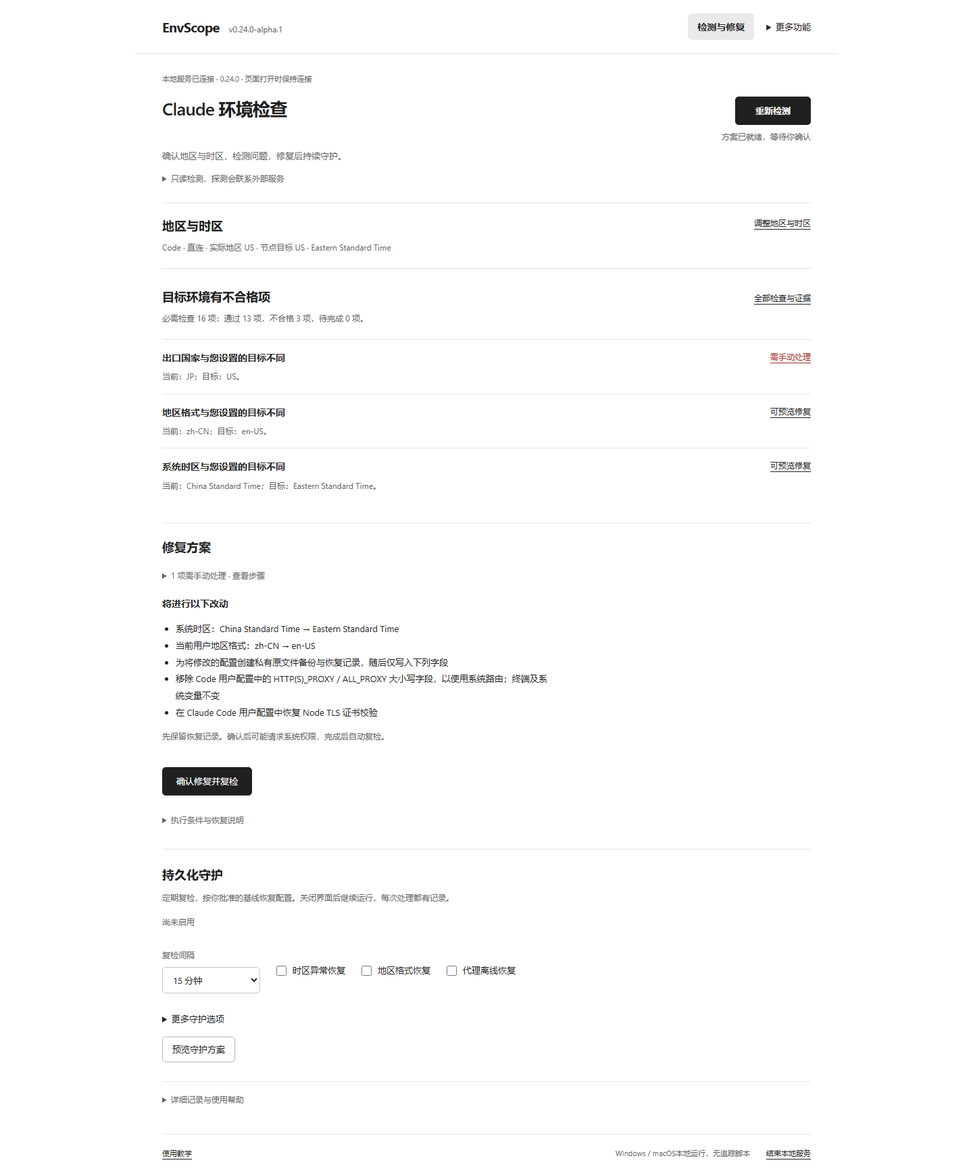
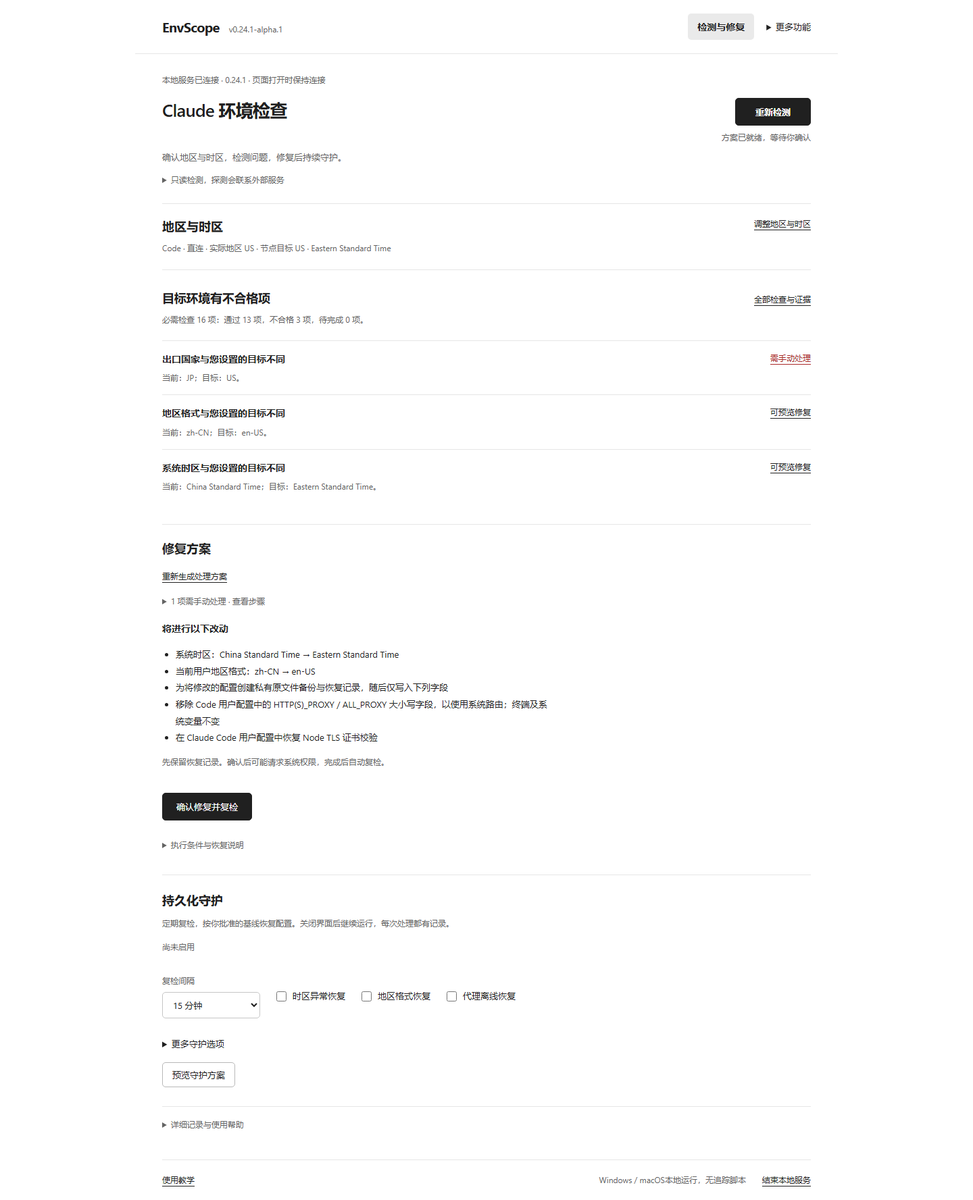
Keep repair plans available after rechecks and preserve failure receipts

diff --git a/envscope/web/minimal.css b/envscope/web/minimal.css
@@ -15,7 +15,7 @@ nav{display:flex;align-items:center;gap:18px}
 .tab[aria-current=page]{background:var(--selected);color:var(--ink);font-weight:600}
 main{margin:0 auto;max-width:1040px;padding:28px 40px 40px;min-height:calc(100vh - 158px)}
 .page{max-width:100%}
-.connection-status{font-size:11px;color:var(--muted);margin:0 0 20px}
+.connection-status{font-size:12px;color:var(--muted);margin:0 0 20px}
 .connection-banner{border:1px solid var(--ink);border-radius:5px;padding:18px 20px;margin-bottom:24px;max-width:80ch}
 .connection-banner p{margin:8px 0;font-size:13px}
 #show-all-checks{margin-bottom:16px}
@@ -91,9 +91,9 @@ dl div{display:flex;flex-direction:column;gap:5px;min-width:110px;font-size:12px
 dt{color:var(--muted)}dd{margin:0;overflow-wrap:anywhere}
 .limits{margin-top:30px;padding-top:22px;border-top:1px solid var(--line)}
 .limits p{margin:10px 0 0}
-footer{max-width:960px;margin:0 auto;padding:18px 0;border-top:1px solid var(--line);display:flex;align-items:center;gap:24px;font-size:11px;line-height:1.9;color:var(--muted)}
+footer{max-width:960px;margin:0 auto;padding:18px 0;border-top:1px solid var(--line);display:flex;align-items:center;gap:24px;font-size:12px;line-height:1.9;color:var(--muted)}
 footer span{margin-left:auto;text-align:right}footer br{display:none}
-footer .link{text-align:left;font-size:11px}
+footer .link{text-align:left;font-size:12px}
 .subtle{font-size:13px;color:var(--muted);margin-bottom:30px;max-width:72ch}
 .tool-section{border-top:1px solid var(--line);margin-top:30px;padding-top:22px}
 .tool-section h2{margin-bottom:10px}
@@ -163,8 +163,8 @@ td .link{margin-left:15px}
 .claude-checklist h3{font-size:14px;font-weight:600;margin:0 0 7px}
 .claude-checklist p{margin:0 0 10px}
 .claude-checklist .check-state{font-weight:600}
-.claude-checklist button{font-size:11px;text-align:left;padding:6px 9px}
-.claude-checklist .note{font-size:11px}
+.claude-checklist button{font-size:12px;text-align:left;padding:6px 9px}
+.claude-checklist .note{font-size:12px}
 .upkeep-state{border-top:1px solid var(--line);padding-top:22px}
 #upkeep-plan{margin-top:20px;max-width:80ch}
 #upkeep-plan h3{font-size:15px;margin-bottom:12px}
@@ -175,7 +175,7 @@ td .link{margin-left:15px}
 #upkeep-events td{vertical-align:top;font-size:12px;line-height:1.8;overflow-wrap:anywhere}
 #upkeep-events td:nth-child(2){width:54%;text-align:left}
 #upkeep-events td:first-child{width:22%}
-#upkeep-events .link{margin-left:0;white-space:normal;text-align:left;font-size:11px}
+#upkeep-events .link{margin-left:0;white-space:normal;text-align:left;font-size:12px}
 #config-backups td{font-size:12px;vertical-align:top}
 .primary{background:var(--ink);border-color:var(--ink);color:#fff;padding:10px 22px}
 .primary:hover:not(:disabled){background:#444;border-color:#444}
@@ -208,8 +208,8 @@ td .link{margin-left:15px}
 .task-number{font-size:12px;font-variant-numeric:tabular-nums;color:var(--muted)}
 .usage-tasks h3{grid-column:2;grid-row:1;font-size:14px;font-weight:550;margin-bottom:4px}
 .usage-tasks p{grid-column:1 / -1;grid-row:3;font-size:12px;line-height:1.8;color:var(--muted);margin:8px 0 0;max-width:73ch}
-.task-state{grid-column:2;grid-row:2;font-size:11px;color:var(--muted);padding-top:2px}
-.explain-label{font-size:11px;color:var(--muted);margin:18px 0 5px}
+.task-state{grid-column:2;grid-row:2;font-size:12px;color:var(--muted);padding-top:2px}
+.explain-label{font-size:12px;color:var(--muted);margin:18px 0 5px}
 .problem .observed{margin-bottom:8px}
 .problem .cause{margin-bottom:14px}
 .other-problems{margin-bottom:25px}
@@ -238,7 +238,7 @@ td .link{margin-left:15px}
 .plain-checks>details[open]>summary::before{content:'−'}
 .plain-checks>details>summary>span:first-of-type{flex:1}
 .plain-checks>details>summary::-webkit-details-marker{display:none}
-.plain-checks .check-state{font-size:11px;font-weight:400;text-align:right;max-width:190px;color:var(--muted)}
+.plain-checks .check-state{font-size:12px;font-weight:400;text-align:right;max-width:190px;color:var(--muted)}
 .plain-checks>details>div{padding-left:34px;font-size:13px;color:var(--muted);max-width:83ch}
 .plain-checks>details>div h3{color:var(--ink);font-size:12px;margin:20px 0 6px}
 .plain-checks>details>div>p{margin-bottom:10px}
@@ -247,7 +247,7 @@ td .link{margin-left:15px}
 #technical-details .result-toolbar{margin-top:20px;padding-top:0;border:0}
 .opensource-option{display:grid;grid-template-columns:170px minmax(0,1fr);column-gap:22px;border-top:1px solid var(--line);padding:20px 0}
 .opensource-option h3{font-size:14px;font-weight:550}
-.opensource-option>.note{grid-column:1;grid-row:2;font-size:11px;margin-top:4px}
+.opensource-option>.note{grid-column:1;grid-row:2;font-size:12px;margin-top:4px}
 .opensource-option>p{grid-column:2;grid-row:1 / span 2;font-size:13px;color:var(--muted);margin-bottom:10px}
 .opensource-option>a{grid-column:2;justify-self:start}
 .connection-options{margin:23px 0 26px;max-width:78ch}
@@ -258,7 +258,6 @@ td .link{margin-left:15px}
 .flow-progress li{font-size:12px;color:var(--muted);flex:1;padding:10px 0 12px}
 .flow-progress li[data-active=true]{color:var(--ink);font-weight:600;border-bottom:2px solid var(--ink);margin-bottom:-1px}
 #flow-state{margin-bottom:24px;max-width:85ch}
-.solution-tools[data-workflow=true]>.actions:first-child{display:none}
 #solution-plan .connection-evidence{padding:10px 0;border-bottom:1px solid var(--line)}
 #solution-plan .connection-evidence p{font-size:12px;line-height:1.85;max-width:83ch;margin:12px 0}
 .manual-items{margin:18px 0}
@@ -300,7 +299,7 @@ td .link{margin-left:15px}
 .inspection-select input { width: 17px; height: 17px; margin: 0; accent-color: #222; }
 .inspection-row[data-manual="true"] { border-left: 3px solid #a92828; padding-left: 12px; }
 .inspection-row[data-manual="true"] .inspection-state, .manual-guidance, .inspection-error { color: #a92828; }
-.manual-guidance { border-left: 3px solid #a92828; padding-left: 14px; margin: 16px 0; }
+.manual-guidance { margin: 16px 0; }
 .inspection-row summary > .inspection-name { flex: 1; }
 #checks-plan:empty, #checks-region-recovery:empty { display: none; }
 #checks-plan { padding: 18px 0; border-bottom: 1px solid #ddd; }
@@ -336,10 +335,10 @@ td .link{margin-left:15px}
 .problem[open]>.cause{margin:12px 0;color:var(--muted)}
 .problem-actions button{font-size:12px}
 .solution-tools{padding-top:22px;margin-top:22px}
-.solution-tools[data-workflow=true]>.actions:not(#solution-backups){display:none}
+.solution-tools[data-workflow=true] #quick-proxy,.solution-tools[data-workflow=true] #quick-proxy-select{display:none}
 #solution-plan h3{margin:15px 0 9px;font-size:14px}
 #solution-plan>ul{padding-left:20px;font-size:13px}
-#solution-output:empty,#flow-upkeep-output:empty,#solution-backups:empty{display:none}
+#solution-output:empty,#solution-result:empty,#flow-upkeep-output:empty,#solution-backups:empty{display:none}
 .flow-upkeep{margin-top:32px;padding-top:24px}
 .flow-upkeep>p{margin:8px 0 14px}
 #flow-watchdog-options{margin:14px 0}

diff --git a/envscope/web/index.html b/envscope/web/index.html
@@ -95,7 +95,7 @@
       <p id="resolution" class="resolution" aria-live="polite" hidden></p>
       <section id="issue-section"><h2 class="sr-only">发现的问题</h2><p id="issue-summary" class="sr-only"></p><div id="problems"></div></section>
       <section id="solution-tools" class="solution-tools" hidden>
-        <h2>修复方案</h2><div class="actions"><button id="prepare-solution" class="link" hidden>重新生成处理方案</button><select id="quick-proxy-select" aria-label="用于测试的已发现代理" hidden></select><button id="quick-proxy" class="link">单独测试已有代理</button></div>
+        <h2>修复方案</h2><div id="solution-result" class="solution-output" role="status"></div><div class="actions"><button id="prepare-solution" class="link" disabled>生成修复方案</button><select id="quick-proxy-select" aria-label="用于测试的已发现代理" hidden></select><button id="quick-proxy" class="link">单独测试已有代理</button></div>
         <div id="solution-plan"></div><div id="solution-output" class="solution-output" aria-live="polite"></div><div id="solution-backups" class="actions"></div>
       </section>
       <section id="flow-upkeep" class="flow-upkeep" hidden aria-labelledby="flow-upkeep-title"><h2 id="flow-upkeep-title">持久化守护</h2><p class="note">定期复检，按你批准的基线恢复配置。关闭界面后继续运行，每次处理都有记录。</p><p id="flow-upkeep-status" class="note" aria-live="polite">尚未启用。</p>

diff --git a/scripts/simple_workflow_smoke.py b/scripts/simple_workflow_smoke.py
@@ -3,7 +3,7 @@ import json
 from pathlib import Path
 import tempfile
 import threading
-from unittest.mock import Mock
+from unittest.mock import Mock, patch
 
 from playwright.sync_api import expect, sync_playwright
 from envscope.legacy import LegacyBridge
@@ -34,8 +34,11 @@ def main():
                         'timezone_id': 'China Standard Time' if system == 'Windows' else 'Asia/Shanghai'}}
                     writes, errors, requests = [], [], []
                     fault = [None]
+                    deny_write = [False]
 
                     def writer(key, value):
+                        if deny_write[0]:
+                            raise PermissionError('fixture: permission denied')
                         writes.append((key, value))
                         if key == 'timezone':
                             inventory['network']['timezone_id'] = value
@@ -98,18 +101,99 @@ def main():
                         expect(page.locator('#flow-upkeep')).to_be_visible()
                         expect(page.locator('#more-results')).not_to_have_attribute('open', '')
                         page.screenshot(path=str(out / f'{system}-{width}-problems.png'), full_page=True)
+                        # A problem's recheck must replace the consumed preview with a
+                        # fresh plan, including region fixes outside legacy repair_count.
+                        first_plan = next(r for r in reversed(requests) if r['action'] == 'inspection-plan')
+                        timezone_issue = page.locator('#problems>details').filter(has_text='系统时区与您设置的目标不同')
+                        timezone_issue.locator('summary').click()
+                        timezone_issue.get_by_role('button', name='重新检测', exact=True).click()
+                        expect(page.locator('#apply-solution')).to_be_visible(timeout=30000)
+                        expect(page.locator('#prepare-solution')).to_be_visible()
+                        next_plan = next(r for r in reversed(requests) if r['action'] == 'inspection-plan')
+                        assert next_plan['params']['report_id'] != first_plan['params']['report_id']
+                        assert not writes, 'rechecking must never apply a plan'
+                        # Expired approval cannot write, and must leave a working way
+                        # to generate another reviewed plan.
+                        for plan in ops.inspection_plans.values():
+                            plan['deadline'] = 0
+                        page.locator('#apply-solution').click()
+                        expect(page.locator('#solution-result')).to_contain_text('方案已失效')
+                        expect(page.locator('#prepare-solution')).to_be_enabled()
+                        assert not writes
+                        # Inject a transport error only at the read-only plan boundary.
+                        def fail_preview(route):
+                            if route.request.post_data_json.get('action') == 'inspection-plan':
+                                route.fulfill(status=503, json={'error': '模拟：方案服务暂时不可用'})
+                            else:
+                                route.continue_()
+                        page.route('**/api/action', fail_preview)
+                        page.locator('#prepare-solution').click()
+                        expect(page.locator('#solution-output')).to_contain_text('暂时不可用')
+                        expect(page.locator('#apply-solution')).to_have_count(0)
+                        expect(page.locator('#prepare-solution')).to_be_enabled()
+                        page.unroute('**/api/action', fail_preview)
+                        page.locator('#prepare-solution').click()
+                        expect(page.locator('#apply-solution')).to_be_enabled()
+                        assert not writes
+                        def waiting_install(route):
+                            if route.request.post_data_json.get('action') == 'inspection-apply':
+                                route.fulfill(json={'state': 'waiting_install', 'reason': '模拟安装：完成后继续复检'})
+                            else:
+                                route.continue_()
+                        page.route('**/api/action', waiting_install)
+                        page.locator('#apply-solution').click()
+                        expect(page.get_by_role('button', name='安装完成，继续复检', exact=True)).to_be_enabled()
+                        assert not writes
+                        page.unroute('**/api/action', waiting_install)
+                        page.get_by_role('button', name='安装完成，继续复检', exact=True).click()
+                        expect(page.locator('#apply-solution')).to_be_enabled(timeout=30000)
+                        expect(page.locator('#solution-result')).to_contain_text('安装后复检已完成')
+                        # The real transaction creates its recovery metadata, then the
+                        # file replacement fails. Its specific reason must remain visible.
+                        with patch('envscope.remedies._replace', side_effect=PermissionError('fixture denied')):
+                            page.locator('#apply-solution').click()
+                            expect(page.locator('#solution-result')).to_contain_text('已保留原文件备份', timeout=30000)
+                            expect(page.locator('#apply-solution')).to_be_enabled(timeout=30000)
+                        assert {key for key, value in writes} == {'timezone', 'locale'}
                         page.locator('#apply-solution').click()
                         expect(page.locator('#resolution')).to_be_visible(timeout=30000)
                         expect(page.locator('#start')).to_be_enabled()
                         assert {key for key, value in writes} == {'timezone', 'locale'}
-                        assert not page.locator('#problems [data-problem="baseline.timezone"]').count()
+                        expect(page.locator('#solution-result')).to_contain_text('修改已执行')
+                        expect(page.locator('#problems [data-problem="target.timezone"]')).to_have_count(0)
+                        expect(page.locator('#apply-solution')).to_have_count(0)
+                        expect(page.locator('#prepare-solution')).to_be_visible()
+                        # Failed recheck keeps the last execution receipt and explains
+                        # why a fresh repair is unavailable; recovery uses a new audit.
+                        page.route('**/api/audit', lambda route: route.fulfill(status=503, json={'error': 'fixture unavailable'}))
+                        page.locator('#start').click()
+                        expect(page.locator('#solution-output')).to_contain_text('本轮检测未完成', timeout=30000)
+                        expect(page.locator('#prepare-solution')).to_be_visible()
+                        expect(page.locator('#prepare-solution')).to_be_disabled()
+                        expect(page.locator('#solution-result')).to_contain_text('修改已执行')
+                        page.unroute('**/api/audit')
+                        page.locator('#start').click()
+                        expect(page.locator('#start')).to_be_enabled(timeout=30000)
                         page.locator('#flow-upkeep-guard-timezone').check()
+                        page.locator('#flow-upkeep-guard-locale').check()
                         page.locator('#flow-upkeep-prepare').click()
                         expect(page.locator('#flow-upkeep-plan')).to_contain_text('保持时区')
                         assert not maintenance.scheduler.definition
                         page.locator('#flow-upkeep-plan button').click()
                         expect(page.locator('#flow-upkeep-status')).to_contain_text('等待', timeout=10000)
                         assert maintenance.scheduler.definition
+                        inventory['network']['timezone_id'] = 'UTC'
+                        inventory['locale'] = 'fr-FR'
+                        assert maintenance.run_once()['state'] == 'completed'
+                        assert inventory['network']['timezone_id'] == ('Eastern Standard Time' if system == 'Windows' else 'America/New_York')
+                        assert inventory['locale'] == ('en-US' if system == 'Windows' else 'en_US')
+                        status = maintenance.status()
+                        assert status['watchdog']['timezone']['state'] == 'restored'
+                        assert status['watchdog']['locale']['state'] == 'restored'
+                        assert any(e['kind'] == 'watchdog_restored' for e in status['events'])
+                        expect(page.locator('#flow-upkeep-status')).to_contain_text('时区', timeout=25000)
+                        expect(page.locator('#flow-upkeep-status')).to_contain_text('地区格式')
+                        page.screenshot(path=str(out / f'{system}-{width}-guard-restored.png'), full_page=True)
                         page.locator('#flow-upkeep-stop').click()
                         expect(page.locator('#flow-upkeep-status')).to_contain_text('尚未启用')
                         fault[0] = 'permission'
@@ -118,6 +202,25 @@ def main():
                         expect(page.locator('#problems')).to_contain_text('权限')
                         assert page.locator('#problems>details[data-manual=true]>summary:visible').count() > 0
                         page.screenshot(path=str(out / f'{system}-{width}-permission.png'), full_page=True)
+                        # A denied OS write must survive the automatic recheck with
+                        # manual recovery guidance and no fabricated repair success.
+                        fault[0] = None
+                        inventory['network']['timezone_id'] = 'UTC'
+                        deny_write[0] = True
+                        previous_writes = list(writes)
+                        page.locator('#start').click()
+                        expect(page.locator('#apply-solution')).to_be_enabled(timeout=30000)
+                        page.locator('#apply-solution').click()
+                        expect(page.locator('#start')).to_be_enabled(timeout=30000)
+                        expect(page.locator('#solution-result')).to_contain_text('修复尚未完成')
+                        expect(page.locator('#solution-result')).to_have_class('solution-output inspection-error')
+                        expect(page.locator('#solution-plan')).to_contain_text('上次地区修改尚未完成')
+                        expect(page.locator('#prepare-solution')).to_be_visible()
+                        expect(page.locator('#apply-solution')).to_have_count(0)
+                        assert writes == previous_writes
+                        expect(page.get_by_role('button', name='查看地区修改与恢复记录', exact=True)).to_have_count(1)
+                        assert inventory['network']['timezone_id'] == 'UTC'
+                        page.screenshot(path=str(out / f'{system}-{width}-repair-denied.png'), full_page=True)
                         for name in ('accounts', 'tools', 'checks', 'upkeep', 'settings', 'coverage', 'history', 'audit'):
                             open_page(page, name)
                             expect(page.locator('#page-' + name)).to_be_visible()
@@ -128,6 +231,10 @@ def main():
                         results.append({'platform': system, 'width': width, 'single_workflow': True,
                                         'all_issue_summaries_visible': True, 'preview_before_write': True,
                                         'repair_retest': True, 'watchdog_preview_enable_disable': True,
+                                        'problem_recheck_fresh_plan': True, 'expired_plan_no_write': True,
+                                        'preview_error_retry': True, 'failed_recheck_recovery': True,
+                                        'denied_write_manual_recovery': True, 'watchdog_drift_restored_and_logged': True,
+                                        'install_continue_previews_remaining': True, 'file_write_failure_reason_retained': True,
                                         'advanced_navigation': True, 'production_changes': False})
                     finally:
                         context.close()

diff --git a/scripts/browser_smoke.py b/scripts/browser_smoke.py
@@ -182,9 +182,10 @@ def main():
                 assert config_shape(config_file)['valid']
                 page.screenshot(path=str(ARTIFACTS/f'{label}-resolved.png'))
                 page.get_by_role('button',name='撤销 Claude 桌面配置',exact=True).click()
-                expect(page.locator('#solution-output')).to_contain_text('已恢复原配置')
+                expect(page.locator('#solution-result')).to_contain_text('已恢复原配置')
                 expect(page.locator('#verdict')).to_contain_text('目标环境有不合格项')
                 assert config_file.read_bytes()==original
+                expect(page.locator('#apply-solution')).to_be_enabled()
                 page.locator('#start').click()
                 expect(page.locator('#apply-solution')).to_be_visible()
                 page.locator('#apply-solution').click()

diff --git a/envscope/__init__.py b/envscope/__init__.py
@@ -1,4 +1,4 @@
 """EnvScope: evidence-first environment diagnostics."""
 
-__version__ = "0.24.0"
+__version__ = "0.24.1"
 __release__ = "v" + __version__ + "-alpha.1"

diff --git a/docs/SIMPLE_WORKFLOW.md b/docs/SIMPLE_WORKFLOW.md
@@ -4,8 +4,8 @@
 
 1. **地区与时区**：填写实际所在地；读取当前出口 IP，建议节点地区及对应城市。选择城市会匹配 Windows / macOS 时区、地区格式和语言目标。手动选择和已保存目标不会被迟到的查询结果覆盖。用途与连接方式按需展开。
 2. **一键检测**：完成目标确认后开始。结果说明必需项通过、不合格和待完成的数量；所有问题标题、实际观测与处理方式直接可见。需要权限、缺少证据和本版不支持的检查分别说明，不计为通过。
-3. **修复方案**：先列出具体字段、原值与目标或可执行操作。时区、地区格式与 Code 配置合并审核，确认后才执行，随后自动复检。保留备份和恢复入口。需要先启动客户端的操作仍分阶段复检；无法自动处理的项目标红并给出步骤。
-4. **持久化守护**：选择周期以及需要保持的时区、地区格式和代理；额外客户端与 Code 选项折叠。预览具体基线并确认启用，同页可停用。后台仅执行已批准的范围并保存结果，未获得权限的修改保留原因。
+3. **修复方案**：先列出具体字段、原值与目标或可执行操作。时区、地区格式与 Code 配置合并审核，确认后才执行，随后自动复检。复检使旧方案失效，再按当前问题生成新方案；重新生成入口始终保留。方案生成失败可重试，检测失败时说明需要先重新检测。上次执行结果、失败原因、备份和恢复入口独立保留；部分失败不会重复自动执行，需核对恢复记录。需要先启动客户端的操作仍分阶段复检；无法自动处理的项目标红并给出步骤。
+4. **持久化守护**：选择周期以及需要保持的时区、地区格式和代理；额外客户端与 Code 选项折叠。预览具体基线并确认启用，同页可停用。后台仅执行已批准的范围并保存结果，未获得权限的修改保留原因。首页显示最近完成时间和各项基线的实际恢复结果；失败、过期或暂停以红色提示，完整日志在“更多功能 → 守护与高级修复”。
 
 顶部“更多功能”提供全部检查（选择 / 全选 / 批量处理）、账号资料、工具与备份、守护与高级修复、历史、设置与更新、环境全览。详细测量、帮助和 Claude 启动入口放在首页末尾，不妨碍主流程。
 
@@ -19,6 +19,6 @@
 
 ## 验收范围
 
-`scripts.simple_workflow_smoke` 使用一次性配置、模拟 Windows / macOS 系统和替代调度器，检查首次提示、地区选择、问题显示、修复审核、自动复检、权限指引、守护启停及全部导航。1024、1280、1440 桌面宽度检查溢出。Code 测试另覆盖损坏 JSON 与证书设置一次修复、已有字段保留和未选择范围拒绝写入。
+`scripts.simple_workflow_smoke` 使用一次性配置、模拟 Windows / macOS 系统和替代调度器，检查首次提示、地区选择、问题内复检生成新方案、过期方案拒绝写入、生成失败重试、复检失败恢复、权限拒绝后的手动恢复、守护启停及全部导航。模拟时区与地区格式漂移后，调用真实守护逻辑，核对恢复读回、日志和首页结果。1024、1280、1440 桌面宽度检查溢出。Code 测试另覆盖损坏 JSON 与证书设置一次修复、已有字段保留和未选择范围拒绝写入。
 
 以上为隔离验收，不修改测试机器的真实时区、代理、账号或后台任务，也不代表 Claude 实际认证已通过。

diff --git a/README.md b/README.md
@@ -2,7 +2,7 @@
 
 面向 Windows 和 macOS 的极简桌面环境工具。以 [claude-switcher](https://github.com/YOURSJEYO/claude-switcher) 为功能底座，保留原版维护能力，增加独立检测、事务式账号管理、代理诊断和历史对比。
 
-当前源码 **0.24.0 Alpha** 将首页简化为“地区与时区 → 一键检测 → 问题和修复 → 持久化守护”。问题逐项可见，缺失的必需证据单独说明；时区、地区格式和 Code 配置合并审核，确认后修复并自动复检。地区预设扩充至 **247 个国家和地区、417 个城市/时区**。账号、全部检查、工具和历史统一放在“更多功能”。参见 [新版操作流程](docs/SIMPLE_WORKFLOW.md) 和 [完整功能对照](docs/FULL_PARITY_AUDIT.md)。公开安装包以 Releases 为准。
+当前源码 **0.24.1 Alpha** 按“地区与时区 → 一键检测 → 问题和修复 → 持久化守护”运行。复检后自动更新修复方案，保留重新生成入口和上次执行结果；方案过期、权限拒绝或检测失败会说明原因与下一步。时区、地区格式和 Code 配置合并审核，确认后修复并复检；守护状态显示具体恢复结果。地区预设覆盖 **247 个国家和地区、417 个城市/时区**。账号、全部检查、工具和历史统一放在“更多功能”。参见 [操作流程](docs/SIMPLE_WORKFLOW.md) 和 [完整功能对照](docs/FULL_PARITY_AUDIT.md)。公开安装包以 Releases 为准。
 
 **0.23.0 已加入**可恢复的旧软件清理、临时浏览器独立清理进程与重启恢复，以及 48 小时不同出口集合统计。清理支持单项 / 全选，先预览、再确认，保留账号与凭据。参见 [旧软件清理](docs/LEGACY_SOFTWARE.md) 和 [临时浏览器](docs/BROWSER_SESSIONS.md)。
 

diff --git a/docs/UI_DESIGN.md b/docs/UI_DESIGN.md
@@ -8,7 +8,7 @@
 
 检测后，所有问题标题、观测和处理方式逐项可见。展开一项可查看原因与步骤；缺少必需证据也必须有明确入口。不能自动修复的项目用红色文字说明。技术记录、已通过的观测与帮助默认折叠。
 
-修复区先列具体改动，只保留一个确认修复并复检按钮。持久化守护紧随其后：选择间隔与需保持的配置，预览、确认、启停都在同页。后台权限或修复失败必须显示原因，不能仅凭写入成功就显示环境合格。
+修复区先列具体改动，只保留一个确认修复并复检按钮，并保留“重新生成处理方案”的次要入口。复检清除旧方案、刷新剩余问题；上次执行结果独立保留。没有自动修改或没有取得本轮报告时，入口置灰并说明原因。持久化守护紧随其后：选择间隔与需保持的配置，预览、确认、启停都在同页。后台权限或修复失败必须显示原因，不能仅凭写入成功就显示环境合格。
 
 ```text
 EnvScope   版本                       检测与修复    更多功能
